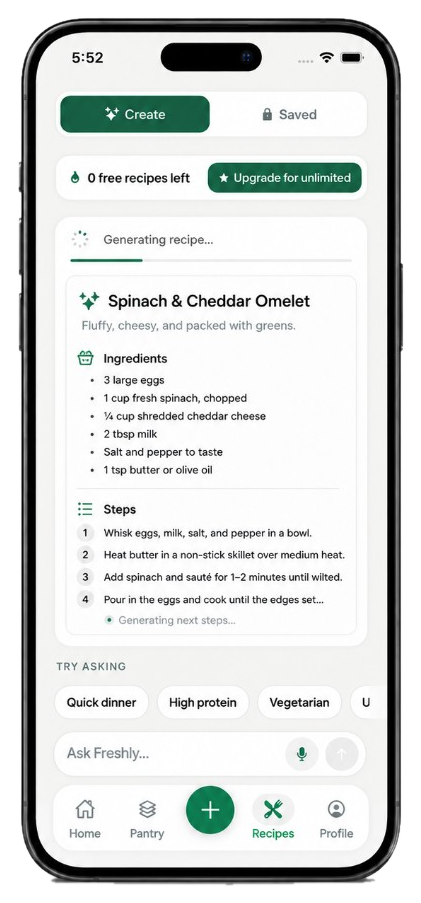
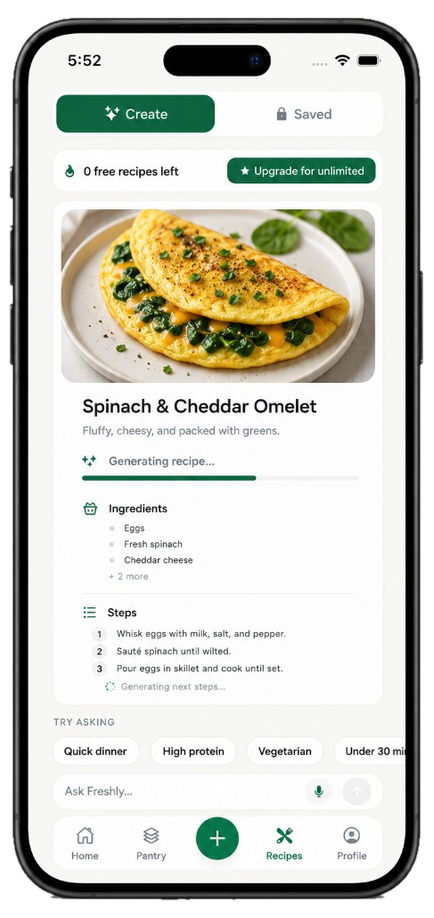
Update recipes mockup with food photo

diff --git a/src/App.jsx b/src/App.jsx
@@ -11,8 +11,8 @@ import {
   Truck,
 } from "lucide-react";
 const homeShot = "/mockups/home.png?v=3";
-const inventoryShot = "/mockups/inventory.png";
-const recipesShot = "/mockups/recipes.png";
+const inventoryShot = "/mockups/inventory.png?v=2";
+const recipesShot = "/mockups/recipes.png?v=2";
 const scanShot = "/mockups/scan.png";
 
 /* ------------------------------------------------------------------ */
@@ -421,7 +421,7 @@ const STEPS = [
     title: "Cook before it expires",
     copy: "Recipes that use what's about to go bad, not what's on a stock photo.",
     img: recipesShot,
-    alt: "Kitchin recipes screen on an iPhone, with an Ask Kitchin prompt and suggestion chips like quick dinner and high protein.",
+    alt: "Kitchin recipes screen on an iPhone, showing a Spinach & Cheddar Omelet with ingredients, steps, and recipe suggestions.",
   },
 ];
 
@@ -429,7 +429,7 @@ function HowItWorks() {
   return (
     <section id="how" className="bg-page py-20 sm:py-24">
       <div className="shell">
-        <div className="max-w-2xl">
+        <div className="mx-auto max-w-2xl text-center">
           <h2 className="font-display text-[clamp(28px,5vw,46px)] font-extrabold tracking-tight text-ink">
             From receipt to recipes in three steps.
           </h2>